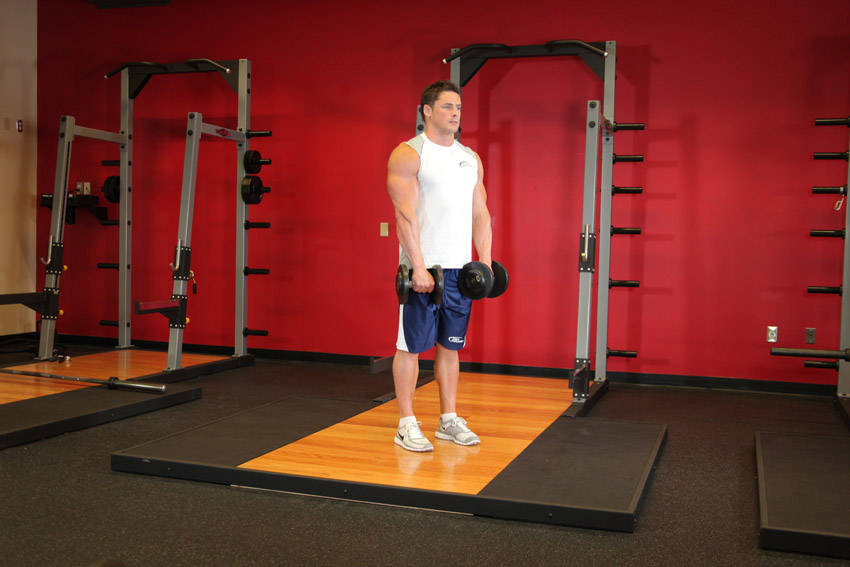
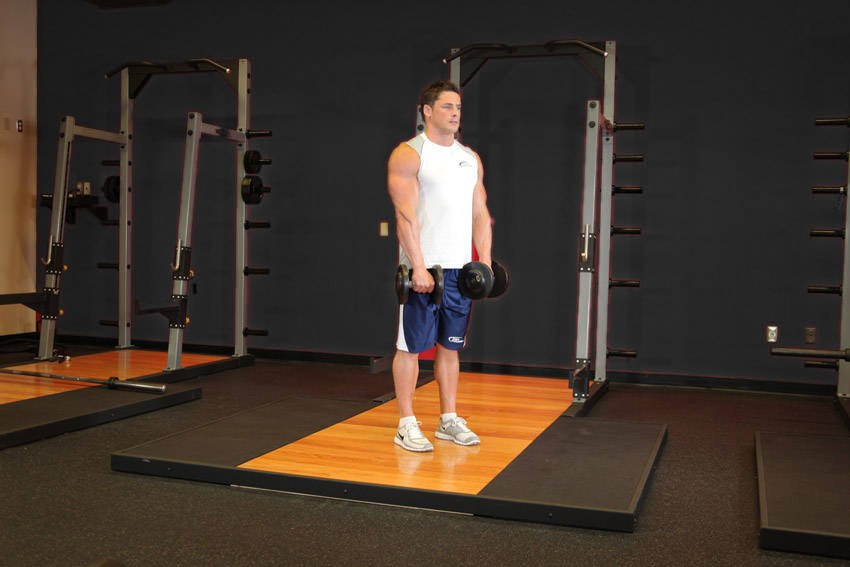
Restyle exercise photos and use dumbbell shots for dumbbell exercises
Repaint the red gym walls in the free-exercise-db photos dark graphite so
they sit with the app's dark theme. Swap barbell and kettlebell photos on
dumbbell exercises (deadlift, Romanian deadlift, hip thrust, reverse grip
row, goblet squat, split squat) for ones without a barbell, and add photos
for the exercises the programs create (rear lunge, frog squat, weighted
crunch, side plank, tripod row, pinwheel curl, reverse grip press).

Content seed 7 reapplies the bundled photos, replacing older bundled ones
but keeping photos the user picked. Bump version to 1.32.2.

diff --git a/src/lib/exercise-images.ts b/src/lib/exercise-images.ts
@@ -3,34 +3,40 @@ import type { ImageSource } from 'expo-image';
 /**
  * Exercise photos bundled with the app, from the public-domain (Unlicense)
  * free-exercise-db: https://github.com/yuhonas/free-exercise-db
+ * The red gym walls in many of them are repainted dark graphite to match the app.
  *
  * Stored in `exercises.image_uri` as `asset:<key>` so user photos (file URIs)
  * and bundled ones share one column.
  */
 const BUNDLED: Record<string, number> = {
   'arnold-dumbbell-press': require('@/assets/exercises/arnold-dumbbell-press.jpg'),
-  'barbell-deadlift': require('@/assets/exercises/barbell-deadlift.jpg'),
-  'barbell-hip-thrust': require('@/assets/exercises/barbell-hip-thrust.jpg'),
   'bent-over-two-dumbbell-row': require('@/assets/exercises/bent-over-two-dumbbell-row.jpg'),
+  'bent-over-two-dumbbell-row-with-palms-in': require('@/assets/exercises/bent-over-two-dumbbell-row-with-palms-in.jpg'),
   bicycling: require('@/assets/exercises/bicycling.jpg'),
+  'butt-lift-bridge': require('@/assets/exercises/butt-lift-bridge.jpg'),
   'chin-up': require('@/assets/exercises/chin-up.jpg'),
   'close-grip-dumbbell-press': require('@/assets/exercises/close-grip-dumbbell-press.jpg'),
   'concentration-curls': require('@/assets/exercises/concentration-curls.jpg'),
+  'cross-body-hammer-curl': require('@/assets/exercises/cross-body-hammer-curl.jpg'),
   crunches: require('@/assets/exercises/crunches.jpg'),
   'decline-dumbbell-bench-press': require('@/assets/exercises/decline-dumbbell-bench-press.jpg'),
   'dips---chest-version': require('@/assets/exercises/dips---chest-version.jpg'),
   'dumbbell-bench-press': require('@/assets/exercises/dumbbell-bench-press.jpg'),
+  'dumbbell-bench-press-with-neutral-grip': require('@/assets/exercises/dumbbell-bench-press-with-neutral-grip.jpg'),
   'dumbbell-bicep-curl': require('@/assets/exercises/dumbbell-bicep-curl.jpg'),
+  'dumbbell-deadlift': require('@/assets/exercises/dumbbell-deadlift.jpg'),
   'dumbbell-floor-press': require('@/assets/exercises/dumbbell-floor-press.jpg'),
   'dumbbell-flyes': require('@/assets/exercises/dumbbell-flyes.jpg'),
   'dumbbell-incline-row': require('@/assets/exercises/dumbbell-incline-row.jpg'),
   'dumbbell-lunges': require('@/assets/exercises/dumbbell-lunges.jpg'),
+  'dumbbell-rear-lunge': require('@/assets/exercises/dumbbell-rear-lunge.jpg'),
+  'dumbbell-romanian-deadlift': require('@/assets/exercises/dumbbell-romanian-deadlift.jpg'),
   'dumbbell-shrug': require('@/assets/exercises/dumbbell-shrug.jpg'),
   'dumbbell-side-bend': require('@/assets/exercises/dumbbell-side-bend.jpg'),
   'dumbbell-squat': require('@/assets/exercises/dumbbell-squat.jpg'),
+  'dumbbell-squat-to-a-bench': require('@/assets/exercises/dumbbell-squat-to-a-bench.jpg'),
   'dumbbell-step-ups': require('@/assets/exercises/dumbbell-step-ups.jpg'),
   'front-dumbbell-raise': require('@/assets/exercises/front-dumbbell-raise.jpg'),
-  'goblet-squat': require('@/assets/exercises/goblet-squat.jpg'),
   'hammer-curls': require('@/assets/exercises/hammer-curls.jpg'),
   'hanging-leg-raise': require('@/assets/exercises/hanging-leg-raise.jpg'),
   'incline-dumbbell-curl': require('@/assets/exercises/incline-dumbbell-curl.jpg'),
@@ -38,19 +44,19 @@ const BUNDLED: Record<string, number> = {
   'incline-dumbbell-press': require('@/assets/exercises/incline-dumbbell-press.jpg'),
   'lying-dumbbell-tricep-extension': require('@/assets/exercises/lying-dumbbell-tricep-extension.jpg'),
   'one-arm-dumbbell-row': require('@/assets/exercises/one-arm-dumbbell-row.jpg'),
+  'one-arm-dumbbell-row-top': require('@/assets/exercises/one-arm-dumbbell-row-top.jpg'),
   plank: require('@/assets/exercises/plank.jpg'),
+  'plie-dumbbell-squat': require('@/assets/exercises/plie-dumbbell-squat.jpg'),
   pullups: require('@/assets/exercises/pullups.jpg'),
   pushups: require('@/assets/exercises/pushups.jpg'),
   'reverse-flyes': require('@/assets/exercises/reverse-flyes.jpg'),
-  'reverse-grip-bent-over-rows': require('@/assets/exercises/reverse-grip-bent-over-rows.jpg'),
-  'romanian-deadlift': require('@/assets/exercises/romanian-deadlift.jpg'),
   'rope-jumping': require('@/assets/exercises/rope-jumping.jpg'),
   'running-treadmill': require('@/assets/exercises/running-treadmill.jpg'),
   'seated-dumbbell-press': require('@/assets/exercises/seated-dumbbell-press.jpg'),
   'seated-triceps-press': require('@/assets/exercises/seated-triceps-press.jpg'),
+  'side-bridge': require('@/assets/exercises/side-bridge.jpg'),
   'side-lateral-raise': require('@/assets/exercises/side-lateral-raise.jpg'),
   'split-squat-with-dumbbells': require('@/assets/exercises/split-squat-with-dumbbells.jpg'),
-  'split-squats': require('@/assets/exercises/split-squats.jpg'),
   'standing-dumbbell-calf-raise': require('@/assets/exercises/standing-dumbbell-calf-raise.jpg'),
   'standing-dumbbell-press': require('@/assets/exercises/standing-dumbbell-press.jpg'),
   'standing-dumbbell-reverse-curl': require('@/assets/exercises/standing-dumbbell-reverse-curl.jpg'),
@@ -58,6 +64,7 @@ const BUNDLED: Record<string, number> = {
   'stiff-legged-dumbbell-deadlift': require('@/assets/exercises/stiff-legged-dumbbell-deadlift.jpg'),
   'straight-arm-dumbbell-pullover': require('@/assets/exercises/straight-arm-dumbbell-pullover.jpg'),
   'tricep-dumbbell-kickback': require('@/assets/exercises/tricep-dumbbell-kickback.jpg'),
+  'weighted-crunches': require('@/assets/exercises/weighted-crunches.jpg'),
   'zottman-curl': require('@/assets/exercises/zottman-curl.jpg'),
 };
 
@@ -78,18 +85,18 @@ export const DEFAULT_EXERCISE_IMAGES: Record<string, string> = {
   'Pull-Up': 'pullups',
   'Chin-Up': 'chin-up',
   'Chest Supported Dumbbell Row': 'dumbbell-incline-row',
-  'Reverse Grip Dumbbell Row': 'reverse-grip-bent-over-rows',
-  'Dumbbell Goblet Squat': 'goblet-squat',
+  'Reverse Grip Dumbbell Row': 'bent-over-two-dumbbell-row-with-palms-in',
+  'Dumbbell Goblet Squat': 'plie-dumbbell-squat',
   'Dumbbell Squat': 'dumbbell-squat',
   'Dumbbell Lunge': 'dumbbell-lunges',
   'Dumbbell Bulgarian Split Squat': 'split-squat-with-dumbbells',
-  'Dumbbell Split Squat': 'split-squats',
+  'Dumbbell Split Squat': 'dumbbell-rear-lunge',
   'Dumbbell Step-Up': 'dumbbell-step-ups',
-  'Dumbbell Romanian Deadlift': 'romanian-deadlift',
+  'Dumbbell Romanian Deadlift': 'dumbbell-romanian-deadlift',
   'Dumbbell Stiff-Leg Deadlift': 'stiff-legged-dumbbell-deadlift',
-  'Dumbbell Deadlift': 'barbell-deadlift',
+  'Dumbbell Deadlift': 'dumbbell-deadlift',
   'Dumbbell Calf Raise': 'standing-dumbbell-calf-raise',
-  'Dumbbell Hip Thrust': 'barbell-hip-thrust',
+  'Dumbbell Hip Thrust': 'butt-lift-bridge',
   'Seated Dumbbell Press': 'seated-dumbbell-press',
   'Standing Dumbbell Press': 'standing-dumbbell-press',
   'Arnold Press': 'arnold-dumbbell-press',
@@ -111,6 +118,14 @@ export const DEFAULT_EXERCISE_IMAGES: Record<string, string> = {
   Crunch: 'crunches',
   'Hanging Leg Raise': 'hanging-leg-raise',
   'Dumbbell Side Bend': 'dumbbell-side-bend',
+  // Exercises the programs add to the library.
+  'Dumbbell Rear Lunge': 'dumbbell-rear-lunge',
+  'Dumbbell Frog Squat': 'dumbbell-squat-to-a-bench',
+  'Weighted Crunch': 'weighted-crunches',
+  'Side Plank': 'side-bridge',
+  'Tripod Dumbbell Row': 'one-arm-dumbbell-row-top',
+  'Dumbbell Pinwheel Curl': 'cross-body-hammer-curl',
+  'Reverse Grip Dumbbell Press': 'dumbbell-bench-press-with-neutral-grip',
   Running: 'running-treadmill',
   Cycling: 'bicycling',
   'Jump Rope': 'rope-jumping',

diff --git a/src/db/seed.ts b/src/db/seed.ts
@@ -1,4 +1,4 @@
-import { and, count, eq, inArray, isNull, or } from 'drizzle-orm';
+import { and, count, eq, inArray, isNull, like, or } from 'drizzle-orm';
 
 import { bundledImageUri, DEFAULT_EXERCISE_IMAGES } from '@/lib/exercise-images';
 import {
@@ -317,6 +317,7 @@ function findOrCreateExercise(
       muscleGroup,
       trackingType,
       youtubeUrl: defaultYoutubeUrl(name),
+      imageUri: name in DEFAULT_EXERCISE_IMAGES ? bundledImageUri(DEFAULT_EXERCISE_IMAGES[name]) : null,
       builtIn: true,
     })
     .returning({ id: exercises.id })
@@ -359,13 +360,21 @@ function insertProgram(seed: ProgramSeed) {
   });
 }
 
-/** Bundled photos for library exercises that don't have one yet; user photos are kept. */
+/**
+ * Bundled photos for library exercises. Fills empty ones and swaps out older
+ * bundled photos; photos the user picked themselves are kept.
+ */
 function addDefaultImages() {
   db.transaction((tx) => {
     for (const [name, key] of Object.entries(DEFAULT_EXERCISE_IMAGES)) {
       tx.update(exercises)
         .set({ imageUri: bundledImageUri(key) })
-        .where(and(eq(exercises.name, name), isNull(exercises.imageUri)))
+        .where(
+          and(
+            eq(exercises.name, name),
+            or(isNull(exercises.imageUri), like(exercises.imageUri, bundledImageUri('%'))),
+          ),
+        )
         .run();
     }
   });
@@ -446,5 +455,10 @@ export function runContentSeeds() {
   if (version < 6) {
     markBuiltIn();
     sqlite.execSync('PRAGMA user_version = 6');
+  }
+  if (version < 7) {
+    // Photos for exercises the programs added, dumbbells instead of barbells.
+    addDefaultImages();
+    sqlite.execSync('PRAGMA user_version = 7');
   }
 }
